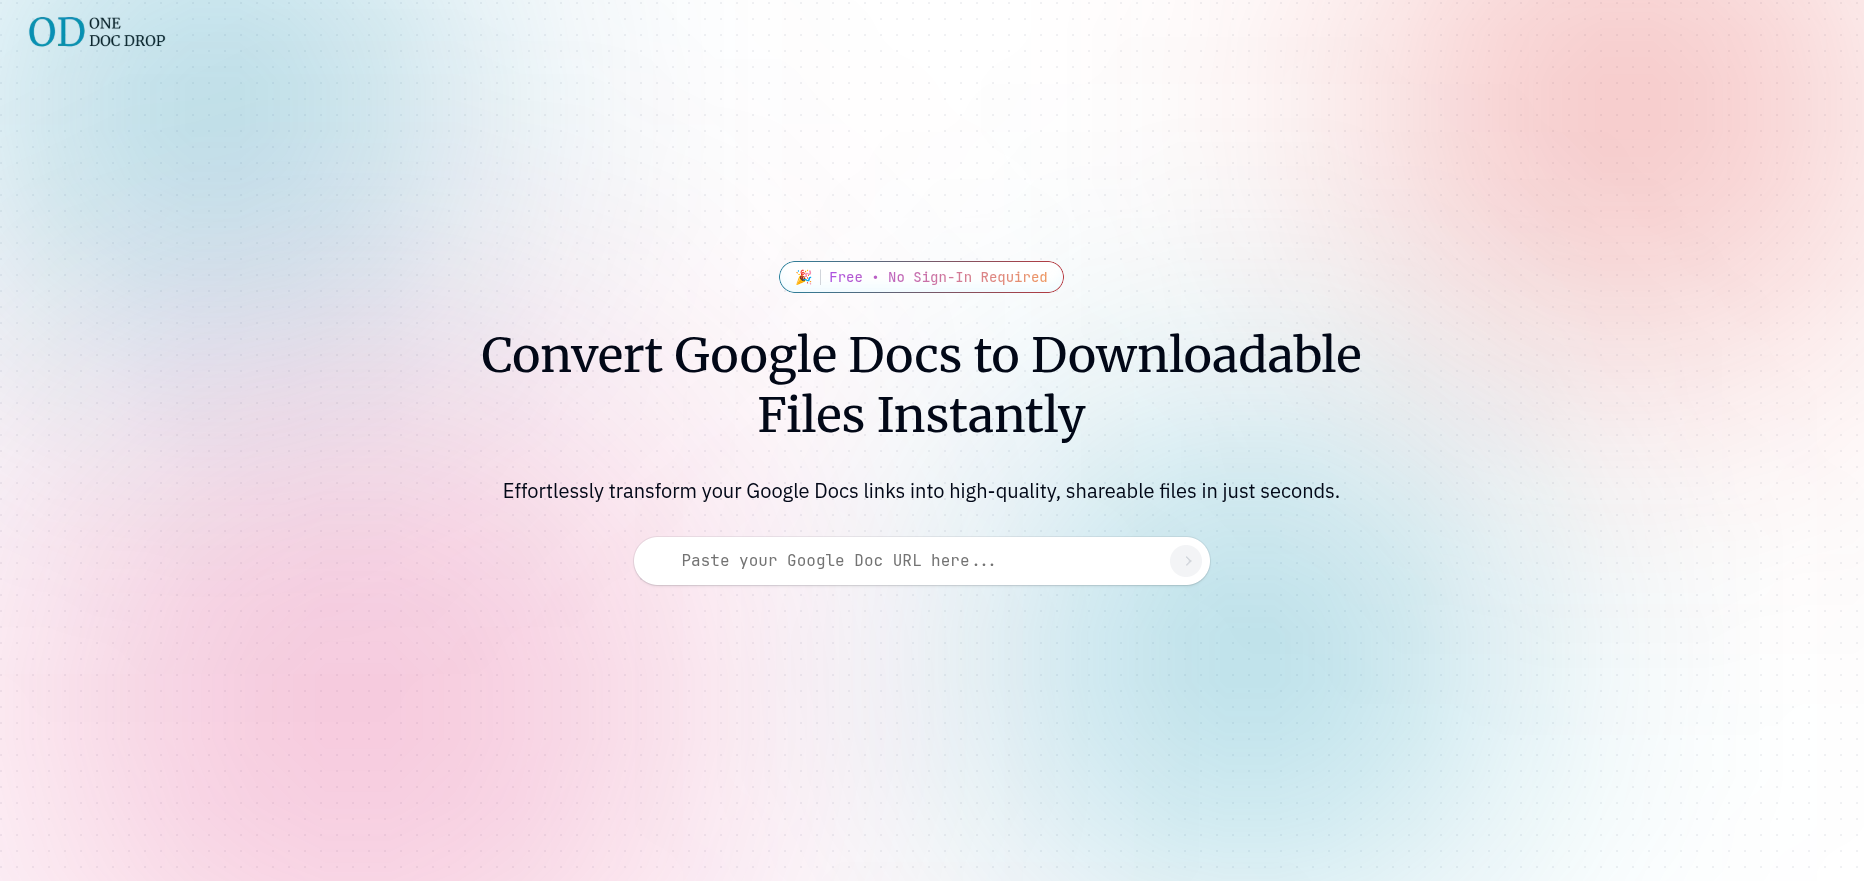
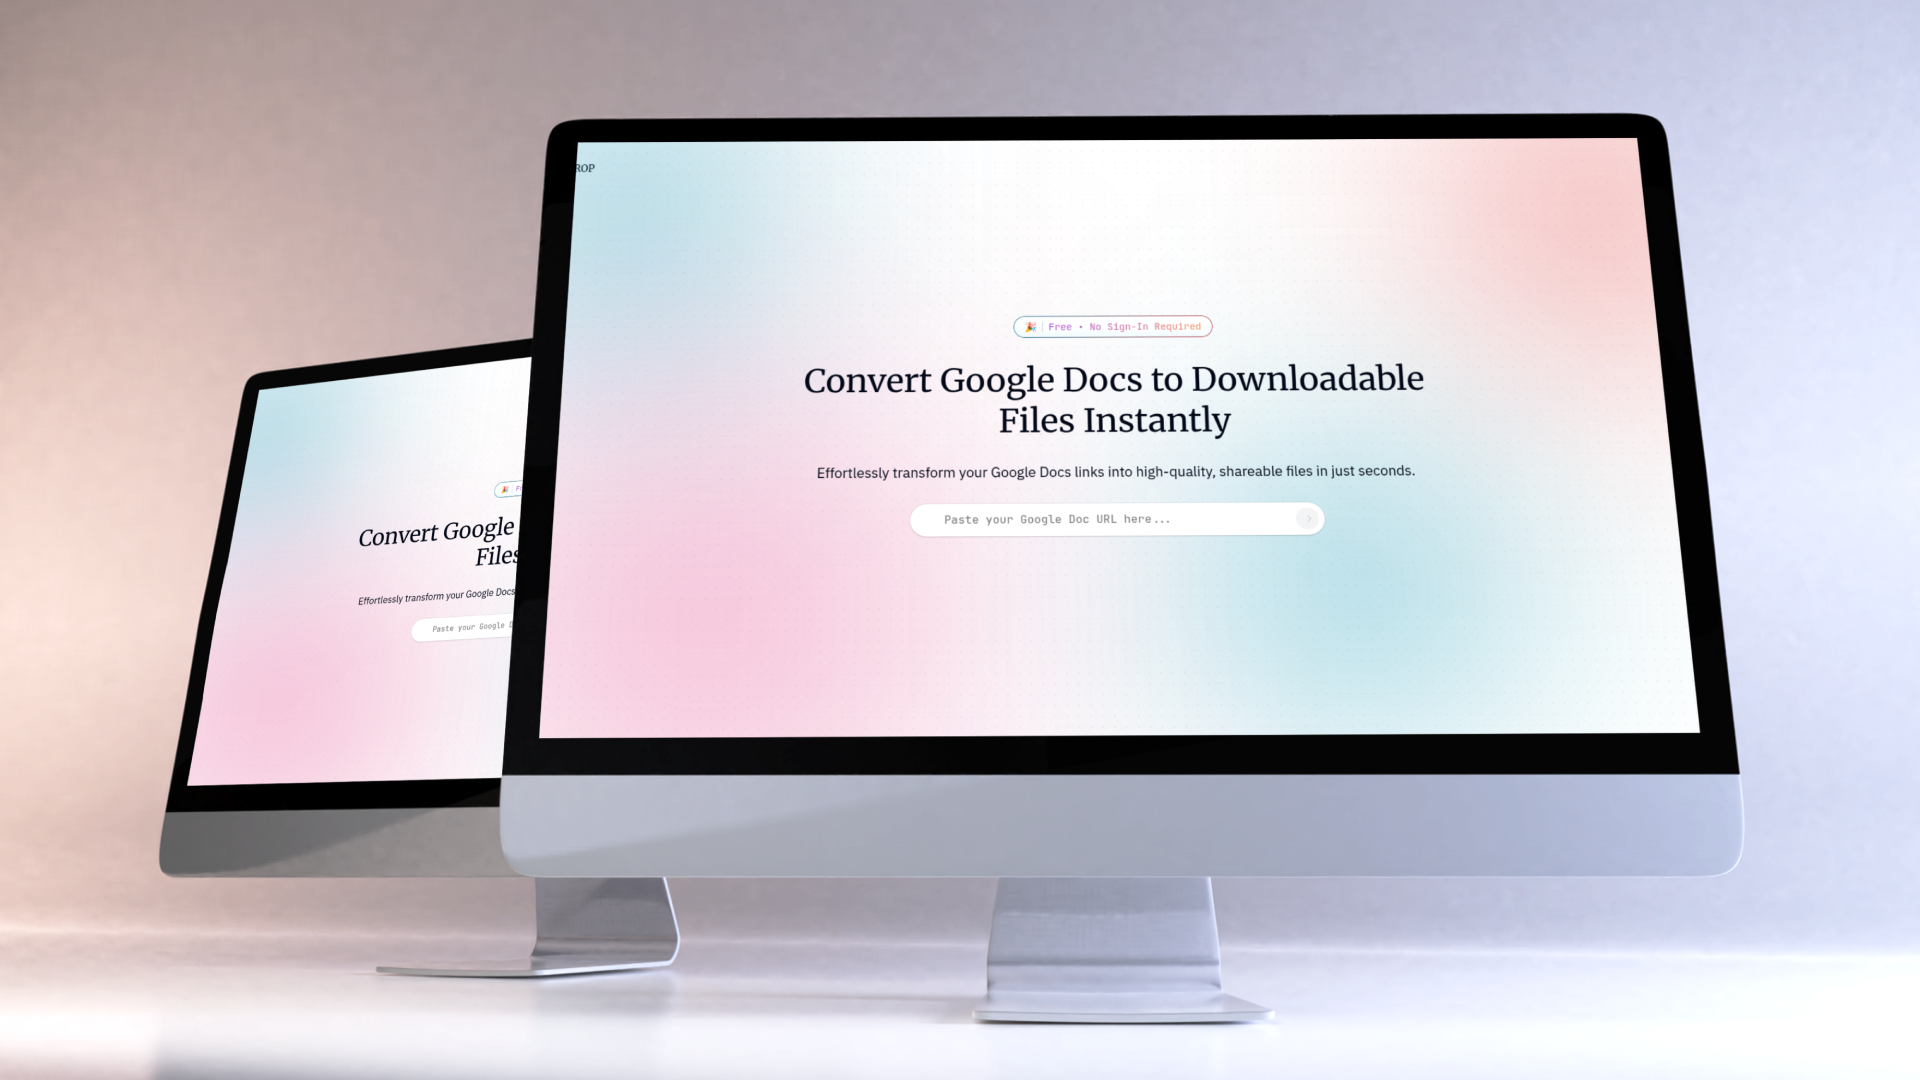
fix: update readme file & add new screenshots

diff --git a/README.md b/README.md
@@ -1,22 +1,42 @@
 # One Doc Drop
 
+![Version](https://img.shields.io/badge/version-1.0-blue)
+![React](https://img.shields.io/badge/React-supported-brightgreen?logo=react)
+![Vite](https://img.shields.io/badge/Vite-supported-646CFF?logo=vite)
+![License](https://img.shields.io/badge/license-MIT-green)
+![No Tracking](https://img.shields.io/badge/tracking-none-lightgrey)
+
 A modern web application for downloading Google Docs in various formats. Simply paste your Google Docs URL and download your document in the format you need.
 
-## 🌐 Live Demo
+![App Overview](screenshots/screenshot.png)
 
-Check out the live demo here: [One Doc Drop](https://mouadbt.github.io/One-Doc-Drop/)
+> [!IMPORTANT]
+> **Note:** To be able to download documents, you must be logged in to your Google account in the current browser session.
 
-## 📸 Screenshot
+## Table of Contents
+- [Screenshots](#screenshots)
+- [Features](#features)
+- [Tech Stack](#tech-stack)
+- [Getting Started](#getting-started)
+- [Available Scripts](#available-scripts)
+- [License](#license)
+- [Acknowledgments](#acknowledgments)
 
-![Screenshot](screenshots/screenshot.png)
+## Screenshots
+
+![Step 1](screenshots/1.png)
+
+![Step 2](screenshots/2.png)
+
+![Step 3](screenshots/3.png)
 
 ## ✨ Features
 
-- 📋 Easy Google Docs URL input
-- 📥 Multiple download format support
-- 🎨 Clean, modern UI with Tailwind CSS
-- ⚡ Fast and responsive
-- 🔄 Real-time feedback
+- 📋 **Easy Input**: Simply paste your Google Docs URL.
+- 📥 **Format Variety**: Support for multiple download formats.
+- 🎨 **Modern UI**: Clean interface built with Tailwind CSS and shadcn/ui.
+- ⚡ **Performance**: Fast and responsive user experience powered by Vite.
+- 🔄 **Real-time Feedback**: Immediate status updates during the download process.
 
 ## 🛠 Tech Stack
 
@@ -38,7 +58,7 @@ Check out the live demo here: [One Doc Drop](https://mouadbt.github.io/One-Doc-D
 
 1. Clone the repository:
    ```bash
-   git clone <repository-url>
+   git clone https://github.com/mouadbt/Download-google-docs.git
    cd Download-google-docs
    ```
 
@@ -52,7 +72,7 @@ Check out the live demo here: [One Doc Drop](https://mouadbt.github.io/One-Doc-D
    npm run dev
    ```
 
-4. Open your browser and navigate to `http://localhost:5173`
+4. Open your browser and navigate to `http://localhost:5173/One-Doc-Drop`
 
 ## 📦 Available Scripts
 
